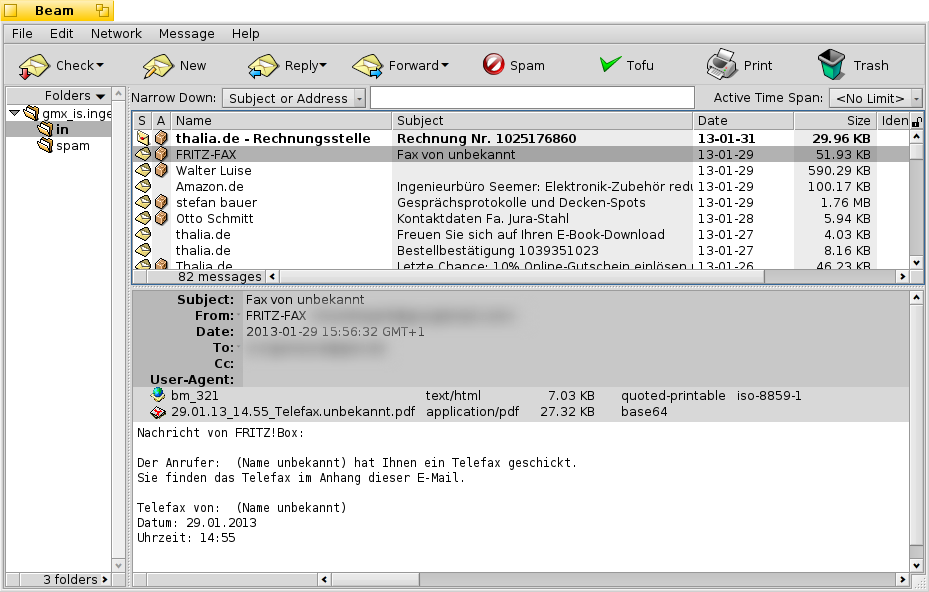
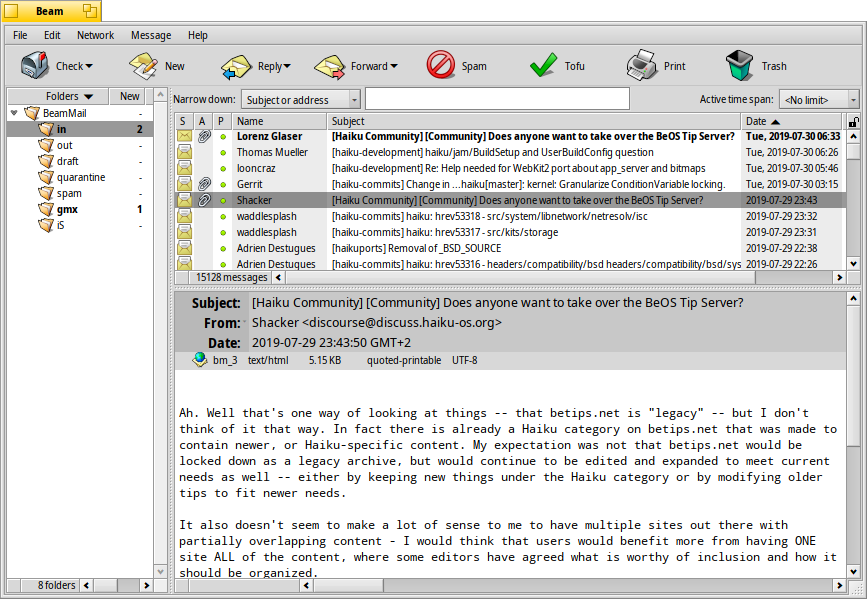
Updated Readme
* Making the readme nice by adding the app icon and list major features.
* Link to the Beam github page instead of Oliver's email for issues etc.
* Add build instructions, remove out-of-date Build.txt.
* Updated screenshot.

diff --git a/Readme.md b/Readme.md
@@ -1,34 +1,37 @@
-# Beam - BEware, Another Mailer #
+# ![icon](icon.png) Beam
+_BEware, Another Mailer_
+
+### Main features
+
+- POP3 and IMAP support for multiple accounts,
+- multiple signatures that can be dynamic by using scripts,
+- customized filter chains to help with sorting emails,
+- a spam filter to separate spam from tufu,
+- customizable shortcuts,
+- customizable icon sets
 
 ![screenshot](screenshot.png)
 
-Beam is a mail-client for BeOS/Haiku.
+Beam was originally developed by Oliver Tappe and is distributed under the GPL (see GnuGeneralPublicLicense.txt).   
+If you have questions, suggestions, complaints or a nice set of icons, file a ticket at the [issue tracker](https://github.com/HaikuArchives/Beam/issues) or submit a pull-request.
 
-It is being developed by Oliver Tappe and distributed under the GPL
-(see GnuGeneralPublicLicense.txt).
-
-Software required by / used within Beam:
+### Software required by / used within Beam:
 
 - The Layout Library (liblayout.so), by Marco Nelissen. Beam requires this to run!
-
-- PCRE, Perl-Compatible-Regular-Expression library, by Philip Hazel. Beam requires
-  this to run!
-
+- PCRE, Perl-Compatible-Regular-Expression library, by Philip Hazel. Beam requires this to run!
 - Parts from SantasGiftBag, by Brian Tietz, hacked up a bit for use in Beam.
+- Regexx, a C++-Regular-Expression library, by Gustavo Niemeyer, ported to BString and hacked up a bit for use in Beam.
+- Libiconv, a library that does conversion between different characterset-encodings, by Bruno Haible.
+- OSBF from crm114, a bayes-like filter that's good for SPAM-filtering, by Fidelis Assis and Bill Yerazunis.
+- openssl (if available), by the OpenSSL-team, is used to provide transport layer security for all network traffic.
 
-- Regexx, a C++-Regular-Expression library, by Gustavo Niemeyer, 
-  ported to BString and hacked up a bit for use in Beam.
+### Build instructions
 
-- Libiconv, a library that does conversion between different
-  characterset-encodings, by Bruno Haible.
+There's already a [HaikuPorts](https://github.com/haikuports/haikuports/wiki) recipe for Beam and the built package is available with the HaikuDepot application. To build Beam manually, make sure you have all needed dependencies. You install them with pkgman:
 
-- OSBF from crm114, a bayes-like filter that's good for SPAM-filtering,
-  by Fidelis Assis and Bill Yerazunis.
+```
+pkgman install devel:libiconv devel:liblayout devel:libpcre devel:libssl
+```
 
-- openssl (if available), by the OpenSSL-team, is used to provide transport 
-  layer security for all network traffic.
-
-If you have questions, suggestions, complaints or a nice set of icons, 
-you can reach the author at: <beam@hirschkaefer.de>.
-
-Have fun!
+After that it's a simple ```jam -qj1``` from the top directory of the cloned github repo (```j1``` will force building with just 1 thread, because there may be issues with more...).
+The resulting binary and add-ons etc. are found in the subfolder ```generated/distro-haiku```.
